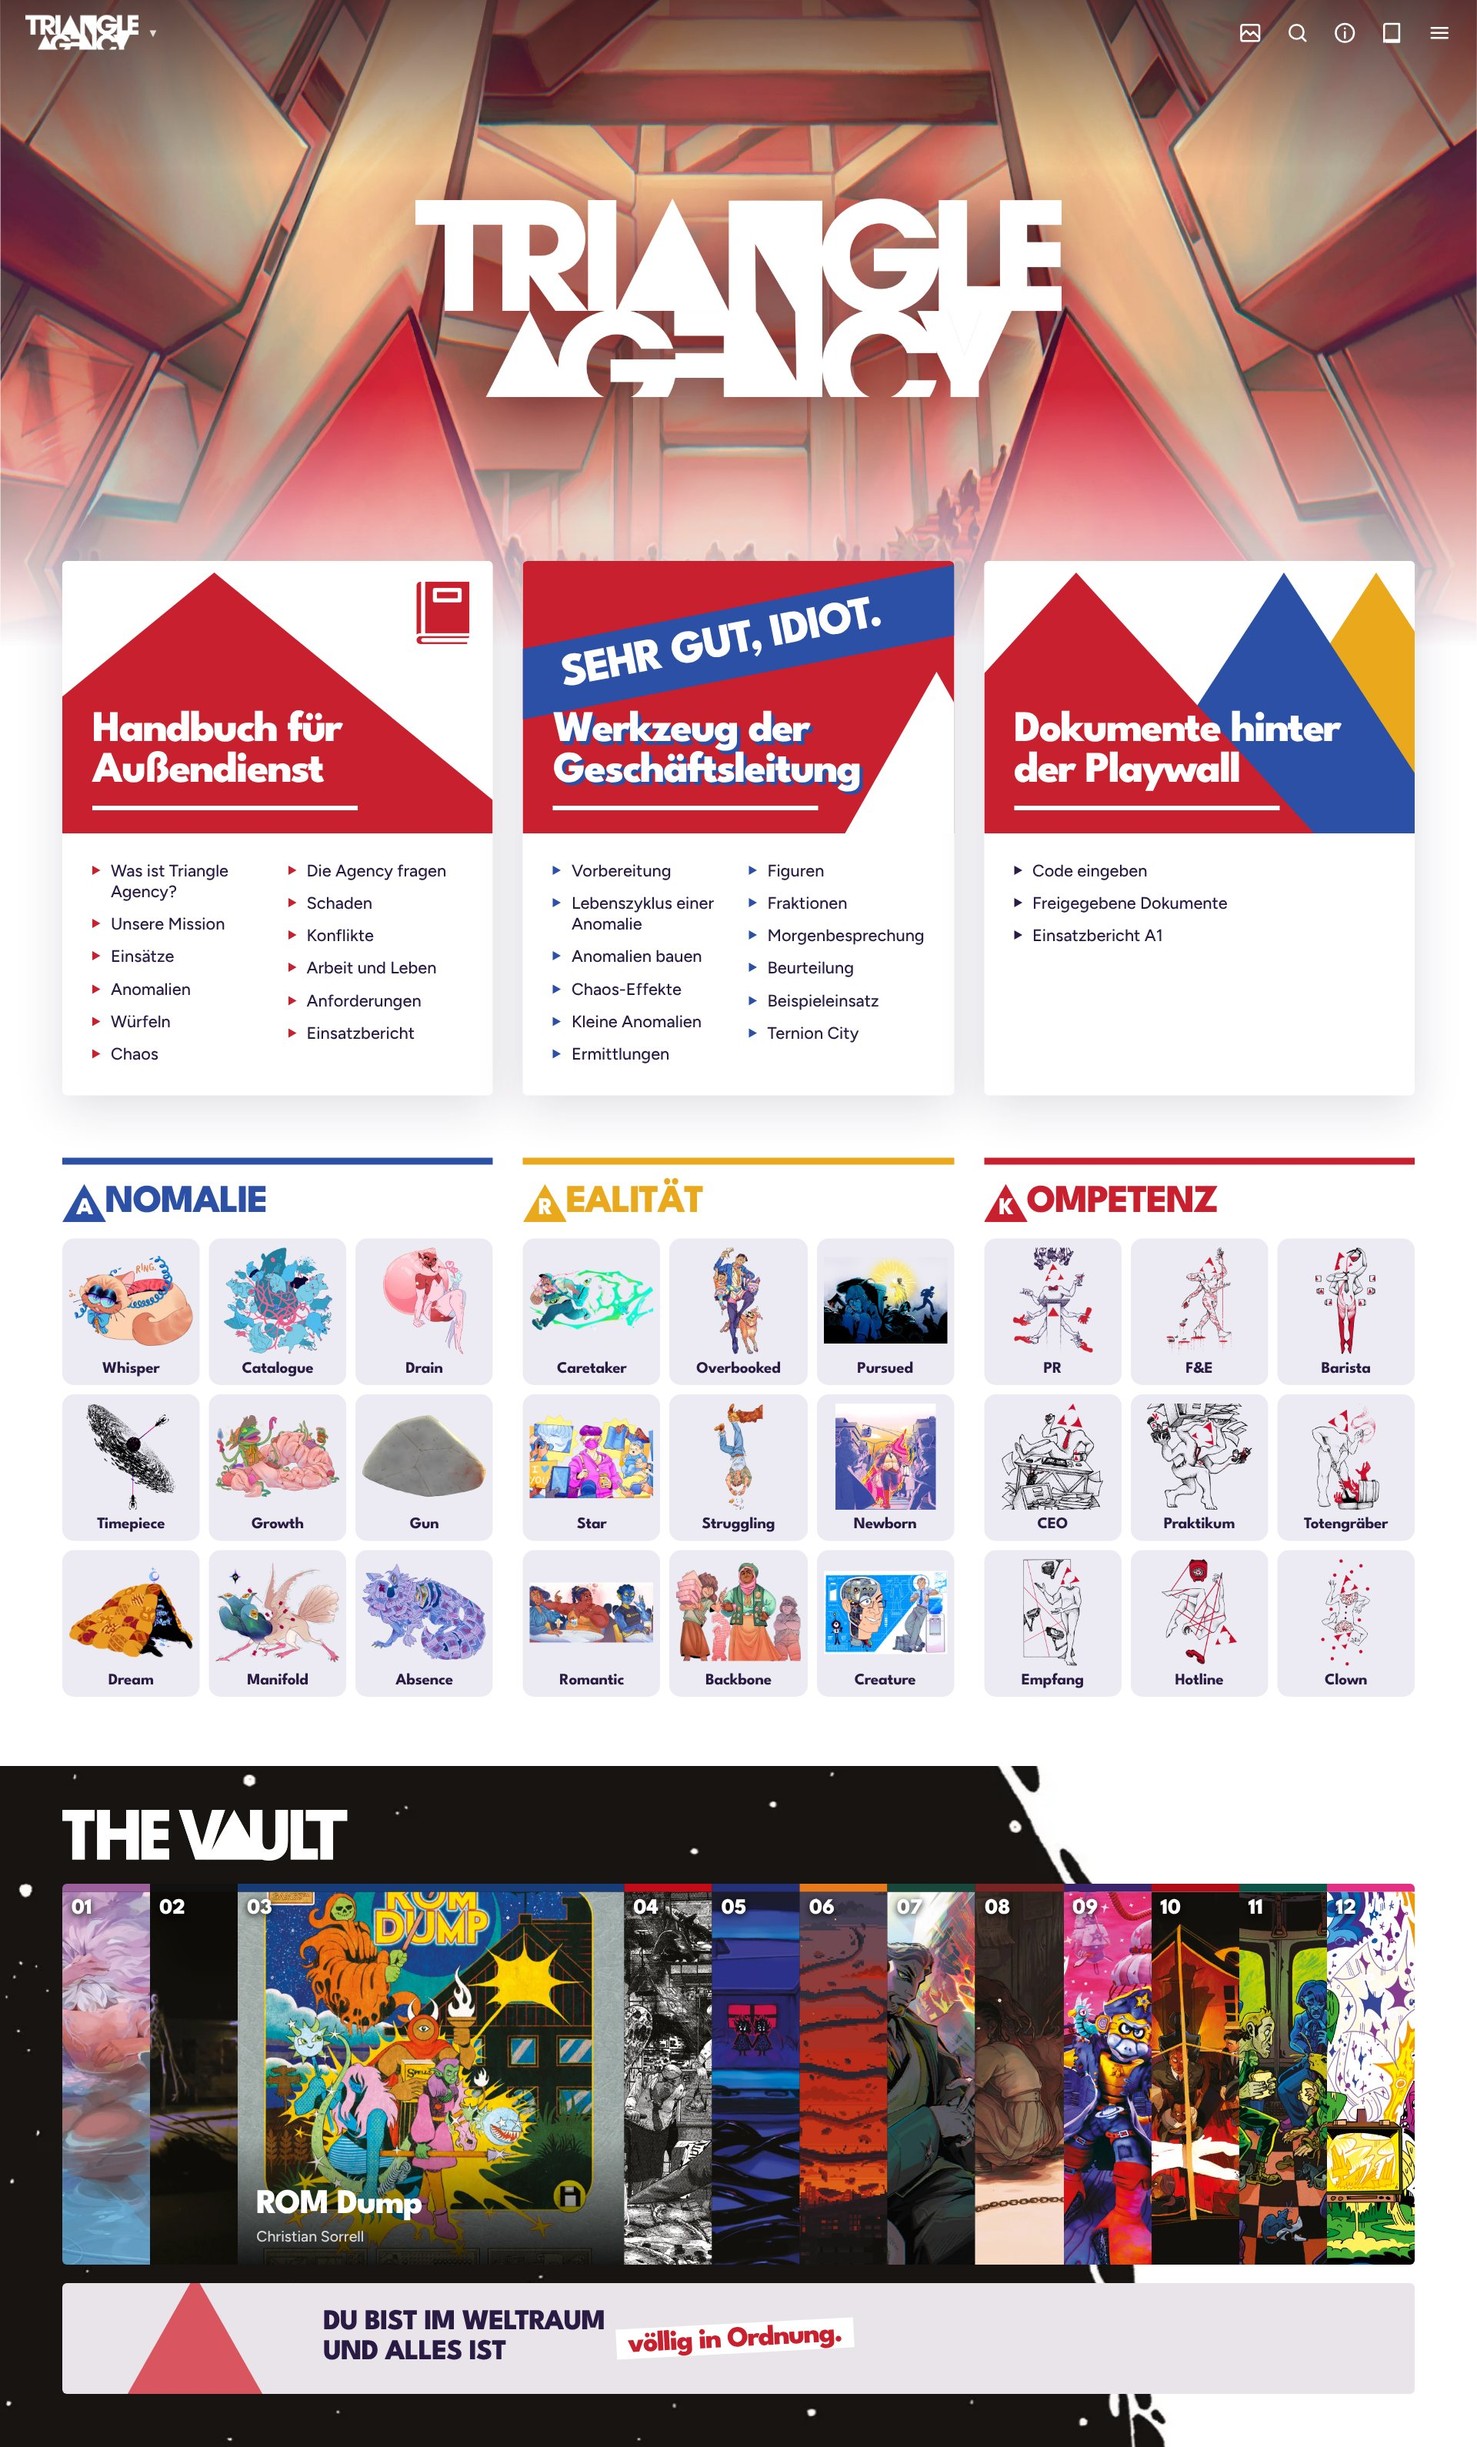
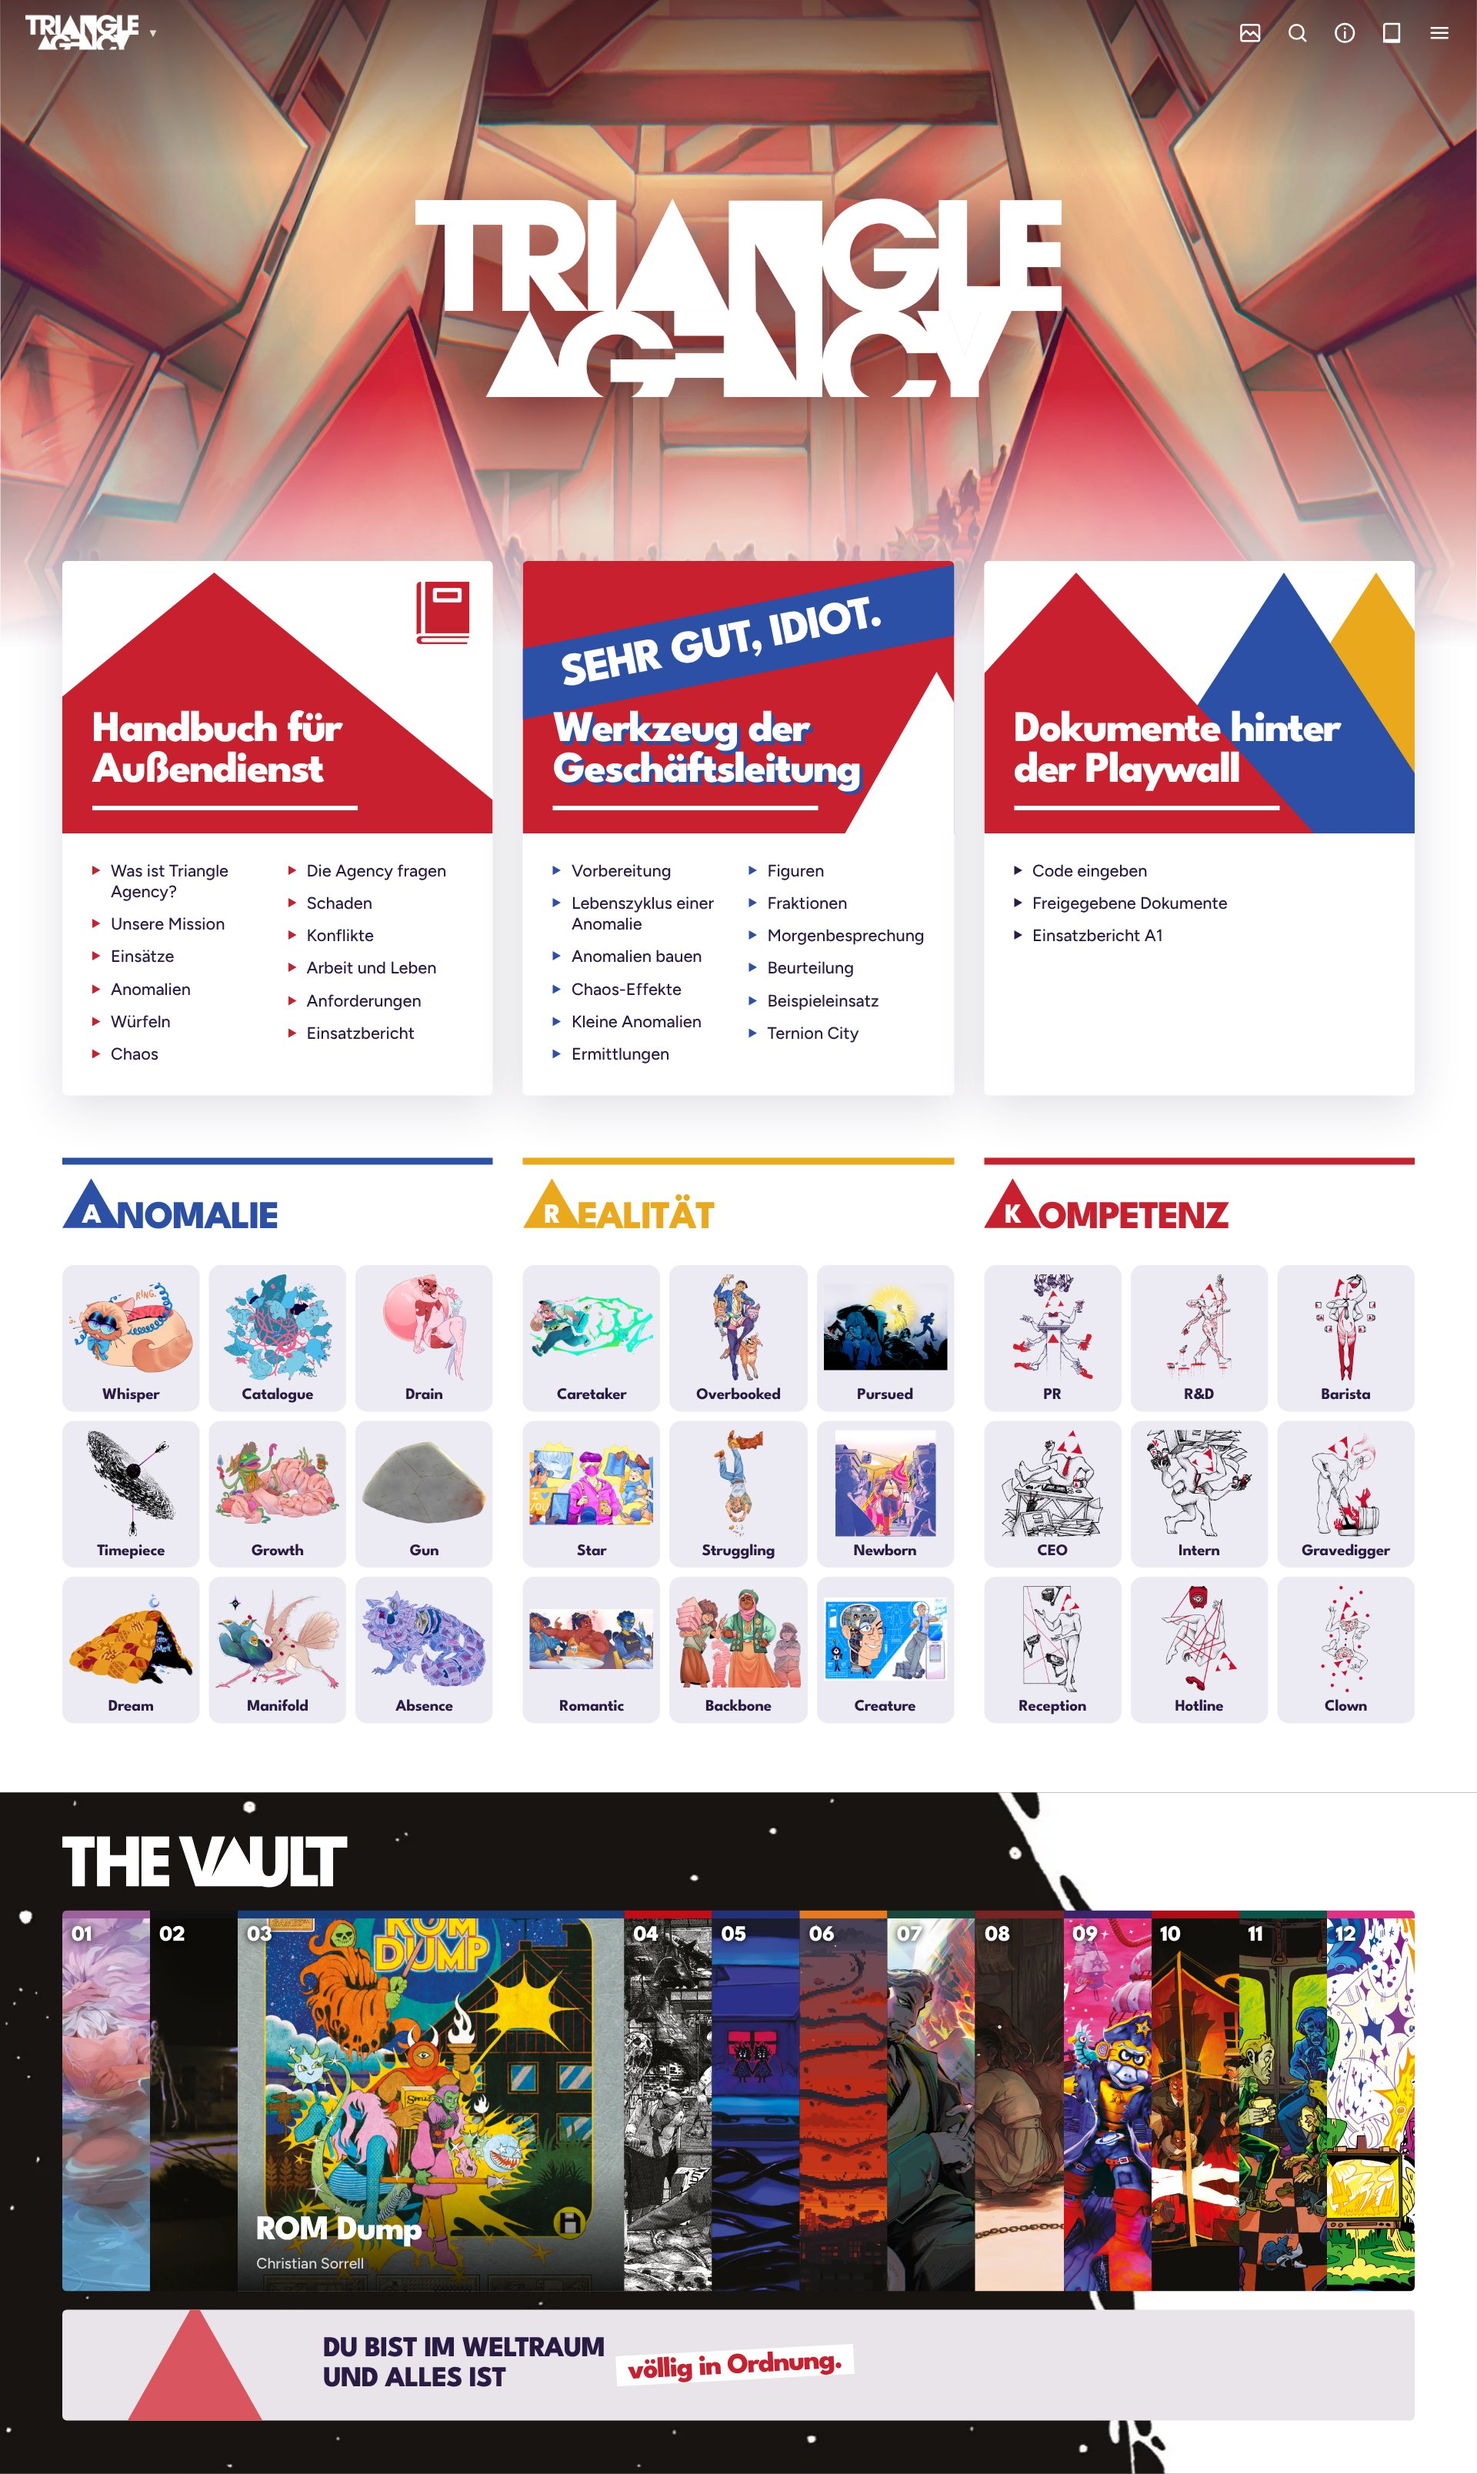
Triangle Agency: Startseiten-Entwurf – ARK-Dreiecke auf der Grundlinie, Kompetenzen englisch

diff --git a/sw.js b/sw.js
@@ -1,6 +1,6 @@
 // Offline-Cache. Bei jeder Änderung an index.html die Version erhöhen,
 // damit installierte Apps die neue Fassung laden.
-const VERSION = "v1208sq";
+const VERSION = "v1209sq";
 // Ein dauerhafter Cache über alle Versionen: Dateien werden nicht bei jeder neuen
 // Version komplett neu geladen, sondern einzeln im Hintergrund abgeglichen.
 const CACHE = "erzaehler-tafel-dateien";

diff --git a/plan/triangle/mockups/src/gen_start.py b/plan/triangle/mockups/src/gen_start.py
@@ -5,7 +5,7 @@ anomN = ['Whisper','Catalogue','Drain','Timepiece','Growth','Gun','Dream','Manif
 real = ['caretaker','overbooked','pursued','star','struggling','newborn','romantic','backbone','creature']
 realN = ['Caretaker','Overbooked','Pursued','Star','Struggling','Newborn','Romantic','Backbone','Creature']
 komp = ['pr','forschung-entwicklung','barista','ceo','praktikant','totengraeber','empfang','hotline','clown']
-kompN = ['PR','F&E','Barista','CEO','Praktikum','Totengräber','Empfang','Hotline','Clown']
+kompN = ['PR','R&D','Barista','CEO','Intern','Gravedigger','Reception','Hotline','Clown']
 def grid(pre, ids, ns):
     return '<div class="g9">' + ''.join(f'<a><i style="background-image:url({T}{pre}-{i}.webp)"></i><span>{n}</span></a>' for i, n in zip(ids, ns)) + '</div>'
 mis = [('01-springs-eternal','Springs Eternal','#9c609c'),('02-dead-quiet','Dead Quiet','#111'),('03-rom-dump','ROM Dump','#183c78'),('04-zbarro-641','ZBARRO #641','#c40c18'),('05-bower-street','Bower Street','#243078'),('06-gridhog','GRIDHOG','#e8791c'),('07-hollow-suit','Hollow Suit','#18483c'),('08-weird-dog','Weird Dog','#782424'),('09-planet-providence','Planet Providence','#3c246c'),('10-murder-at-gruntley-manor','Murder at Gruntley Manor','#b00c18'),('11-blame-it-on-the-trains','Blame it on the Trains','#0c5448'),('12-nosedive','Nosedive','#e43084')]
@@ -31,9 +31,9 @@ html = f'''<!doctype html><meta charset=utf-8><link rel=stylesheet href=base.css
 .akte li{{padding:5px 0 5px 16px;position:relative;break-inside:avoid}}
 .akte li:before{{content:"";position:absolute;left:0;top:10px;border-top:4.5px solid transparent;border-bottom:4.5px solid transparent;border-left:7px solid var(--c)}}
 .arc{{margin:54px 54px 0;display:grid;grid-template-columns:repeat(3,1fr);gap:26px}}
-.arc section{{border-top:6px solid var(--c);padding-top:16px}}
-.arc h3{{font-size:34px;color:var(--c);display:flex;align-items:flex-end;gap:2px}}
-.arc h3 u{{text-decoration:none;display:inline-block;width:38px;height:33px;background:var(--c);clip-path:polygon(50% 0,100% 100%,0 100%);color:#fff;font-size:21px;text-align:center;line-height:42px;margin-right:-3px}}
+.arc section{{border-top:6px solid var(--c);padding-top:30px}}
+.arc h3{{font-size:34px;color:var(--c);display:flex;align-items:baseline;line-height:1}}
+.arc h3 u{{text-decoration:none;display:inline-block;width:50px;height:43px;background:var(--c);clip-path:polygon(50% 0,100% 100%,0 100%);color:#fff;font-size:24px;text-align:center;line-height:64px;margin-right:-3px;align-self:flex-end;position:relative;top:-18px}}
 .g9{{display:grid;grid-template-columns:repeat(3,1fr);gap:8px;margin-top:14px}}
 .g9 a{{background:var(--flieder);border-radius:10px;padding:8px 6px 7px;text-align:center}}
 .g9 i{{display:block;height:92px;background:center/contain no-repeat}}
